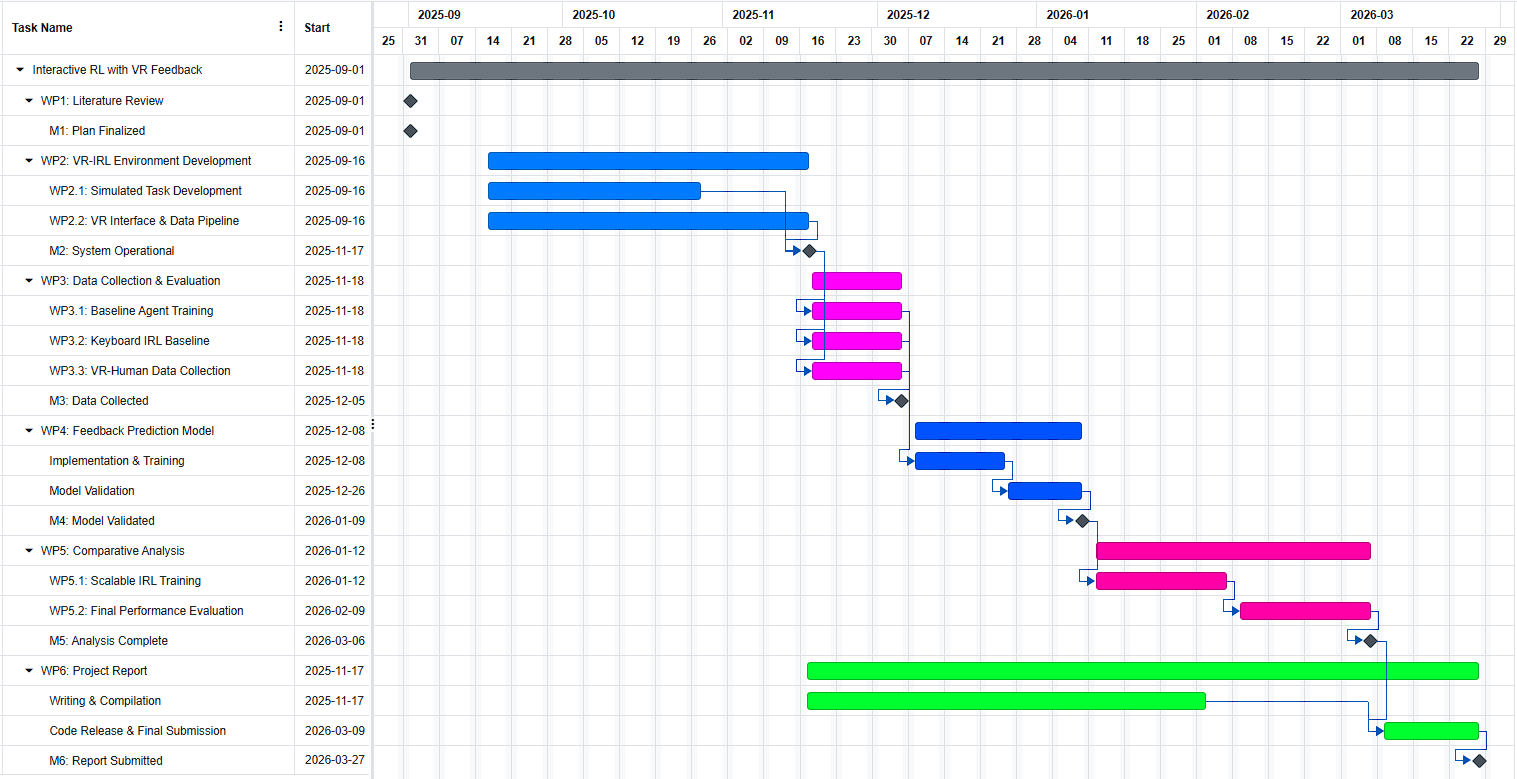
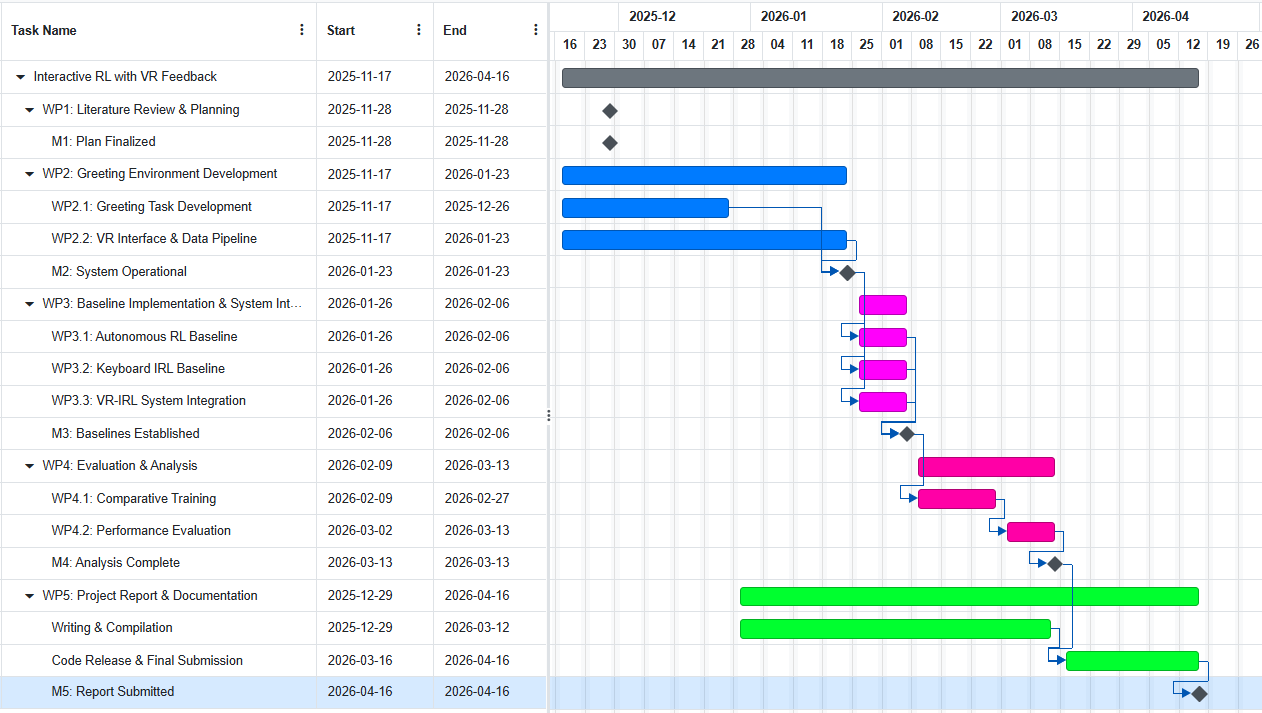
Add the gantt chart back.

Changed region(s): [[0.0, 0.0, 1.0, 1.0], [0.8962, 0.216, 0.958, 0.2468], [0.8344, 0.5554, 0.8653, 0.5863]]

diff --git a/Docs/LastNameI-[RnD-MT]Proposal.tex b/Docs/LastNameI-[RnD-MT]Proposal.tex
@@ -29,7 +29,7 @@ A promising way to address this problem is Interactive Reinforcement Learning (I
 
 Despite its potential, a significant bottleneck in traditional IRL is the interface for human feedback. Most systems rely on low-bandwidth, explicit channels such as keyboard presses, button clicks, or simple GUI interactions \citep{Faulkner2020, Loftin2014}. These methods are unnatural and awkward for the human teacher. They also cannot capture the rich details of human communication, like gestures, gaze, and tone of voice \citep{9794595, Lin2020a}. This creates an expressiveness gap, limiting the quality and type of information that can be transferred from human to robot.
 
-At the same time, advances in consumer-grade Virtual Reality (VR) technology have created new opportunities for human-computer interaction. Modern VR headsets have many sensors that can track head pose, hand gestures, eye gaze, and voice input, offering an immersive and intuitive interface for human communication. These sensors can capture detailed human feedback in a natural way \citep{Winkler2022,Luo2024}. However, using VR to collect real-time scalar feedback as part of an IRL system remains largely unexplored.
+At the same time, advances in consumer-grade Virtual Reality (VR) technology have created new opportunities for human-computer interaction. Modern VR headsets have many sensors that can track head pose, hand gestures, eye gaze, and voice input, offering an immersive and intuitive interface for human communication. These sensors can capture detailed human feedback in a natural way \citep{Winkler2022,Luo2024}. Even with this potential, VR and IRL have mostly developed separately. VR is often used to collect demonstration data (e.g., \citep{10904309, Mosbach2022}) and a recent study used it for preference-based learning \citep{Heuvel2025}. However, using VR to collect real-time scalar feedback as part of an IRL system remains largely unexplored.
 
 This project aims to close this gap by developing a novel IRL system that uses VR as an interface for human feedback. The core idea is to allow users to interact with a virtual agent using gestures, gaze, voice, or controller inputs to deliver reinforcement signals in real time. The main goal of this research is to build a proof-of-concept system that demonstrates the feasibility of using immersive technologies for human-in-the-loop RL, making AI training more natural and intuitive.
 
@@ -247,15 +247,13 @@ The project plan will include the following packages:
 \end{enumerate}
 
 \subsection{Project Schedule}
-The project will follow a 6-month timeline. The schedule allocates time for the key development phases with appropriate buffers for troubleshooting and iteration.
+The project will follow a 6-month timeline. The schedule allocates time for the key development phases with appropriate buffers for troubleshooting and iteration. The Gantt chart below visualizes the schedule.
 
-\noindent
-\textbf{Month 1:} Literature review and technical specification (WP1)\\
-\textbf{Month 2:} Environment development and VR interface implementation (WP2)\\
-\textbf{Month 3:} Baseline implementations and system integration (WP3)\\
-\textbf{Month 4:} VR system refinement and preliminary testing\\
-\textbf{Month 5:} Comparative evaluation and analysis (WP4)\\
-\textbf{Month 6:} Report writing and finalization (WP5)
+\begin{figure}[h!]
+    \includegraphics[width=\textwidth]{images/Behrouz_ganttchart}
+    \caption{Project schedule Gantt chart, showing the planned duration and overlap of Work Packages (WP1-WP5) and the key Milestones (M1-M5). The OnlineGantt web application (www.onlinegantt.com) was used to create this Chart}
+    \label{fig:project_timeline}
+\end{figure}
 
 \subsection{Deliverables}
 
